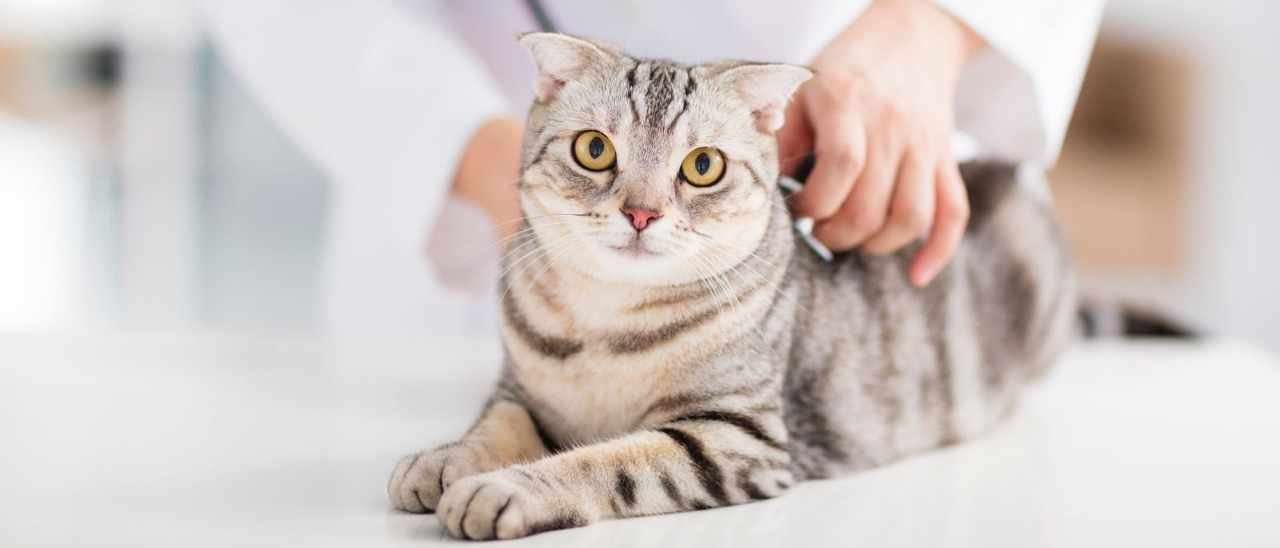
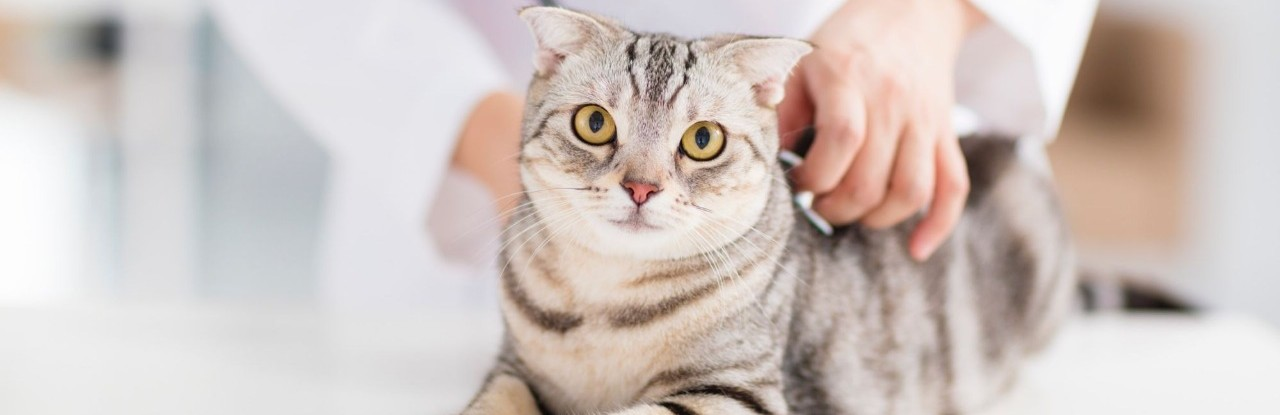
mudança de fotos

diff --git a/index.html b/index.html
@@ -34,7 +34,7 @@
             </div>
 
             <div class="slide">
-                <img class="img2" src="./assets/img/2.jpg" alt="img2">
+                <img class="img2" src="./assets/img/2.png" alt="img2">
             </div>
 
             <div class="slide">

diff --git a/assets/css/style.css b/assets/css/style.css
@@ -117,8 +117,13 @@ nav ul li a:hover {
     width: 100%;
 }
 .img2{
-    width: 500px;
-    
+    width: 120%;
+}
+.img3{
+    width: 100%;
+}
+.img4{
+    width: 100%;
 }
 
 .manual-navigation{
